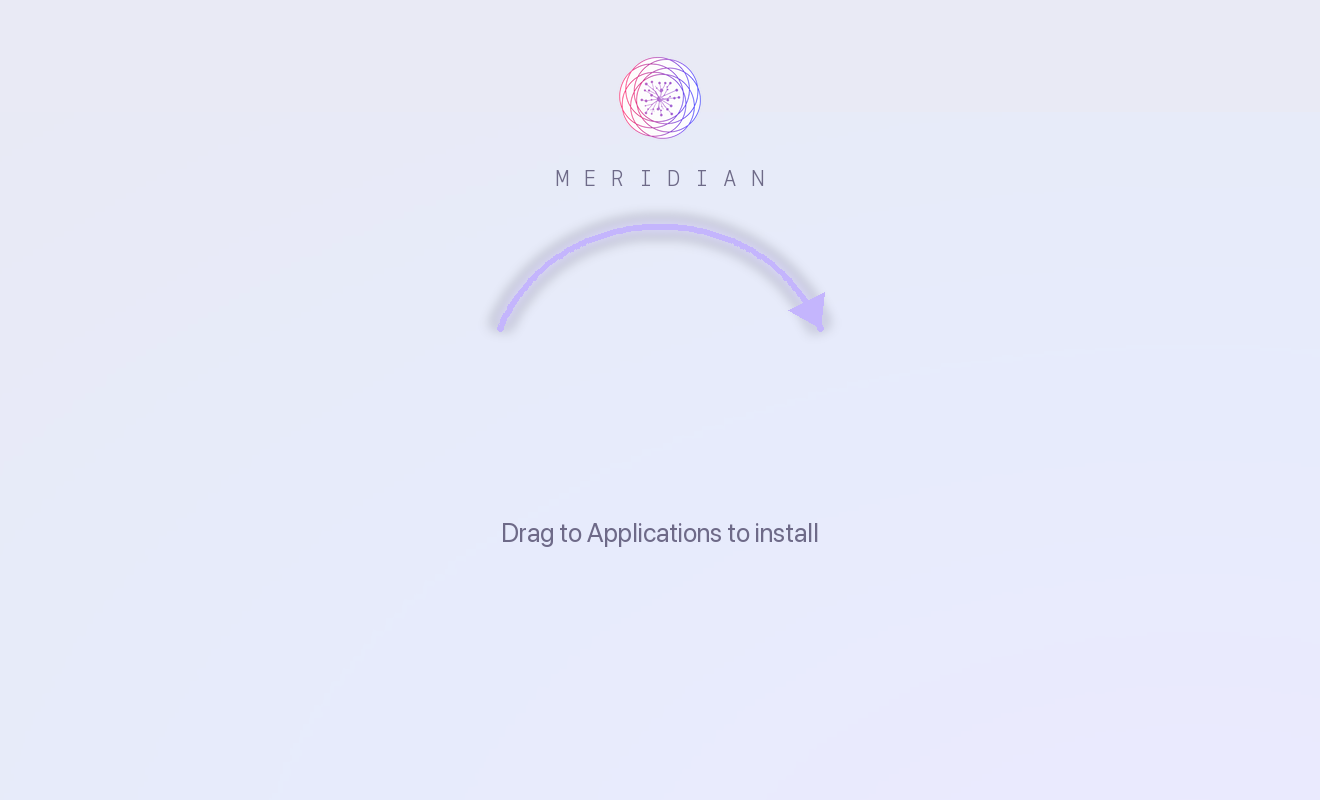
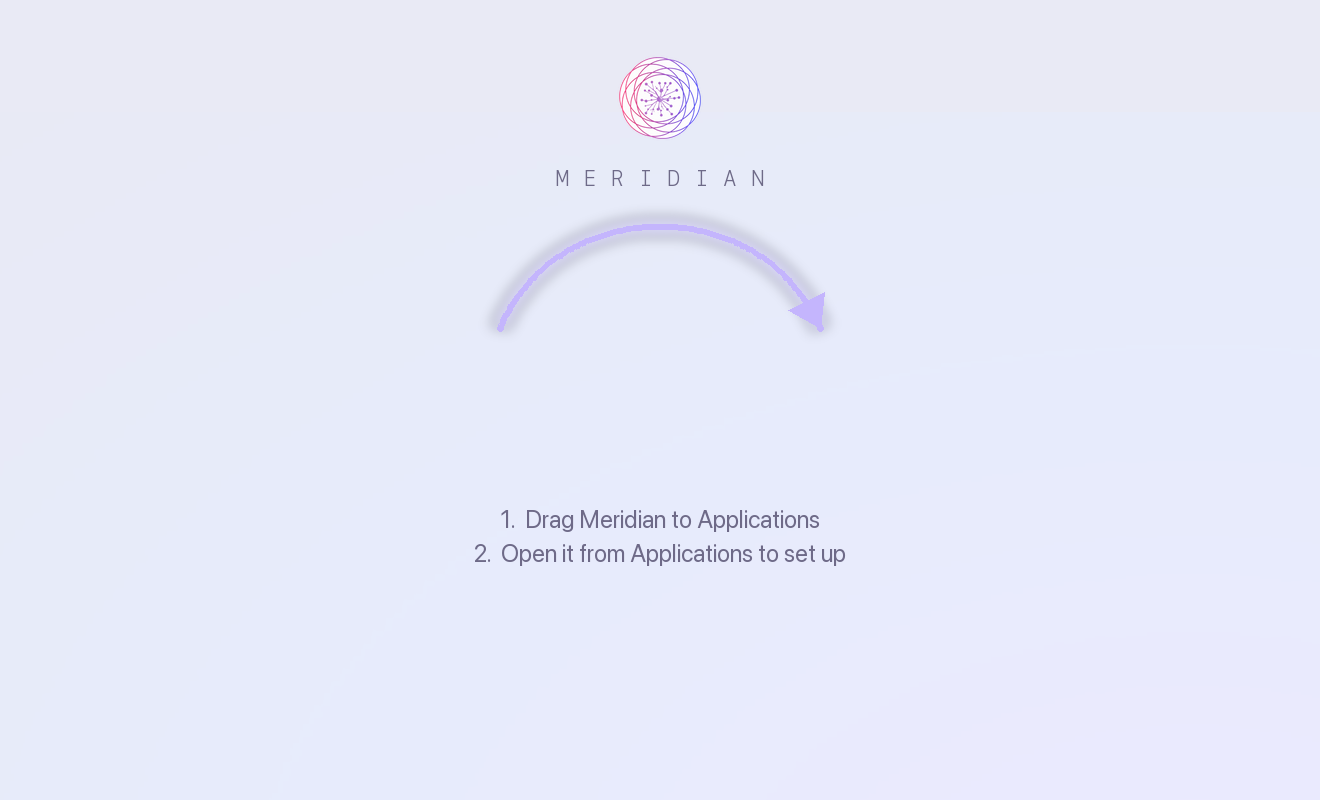
fix(dmg): tell the user to open Meridian, not only to drag it
The installer said "Drag to Applications to install" and stopped. That
describes the drag accurately and then leaves the user on a Finder window with
nothing indicating the app has not started - reported as "on dropping Meridian
to Applications can we make the app setup open immediately?".

It cannot open immediately, and that is not a bug we can fix from inside the
app. A DMG cannot launch anything: the drag is a Finder copy, no code of ours
runs, and macOS has had no post-install hook in a disk image by design for as
long as Gatekeeper has existed. The mechanisms that DO run something after an
install are a .pkg with a postinstall script - which needs a Developer ID
INSTALLER certificate we do not have (ours is the Application cert), and would
change the release artifact and the updater channel - or the user opening it
themselves.

So the honest fix is to ASK for the step, on the only surface a DMG has:

  1.  Drag Meridian to Applications
  2.  Open it from Applications to set up

Numbered rather than one sentence. "and then open it" appended to the drag
instruction reads as a description of what the drag does, which is exactly the
misreading that leaves the app sitting there unopened. Two numbers make it two
actions, and the second names where to find it, because Applications is not
where the user is looking at that moment.

Placed at 252pt, below the 128pt icon row Finder paints at 170pt, so it clears
both icons and their labels.
[…]

Changed region(s): [[0.3727, 0.625, 0.6523, 0.7188]]

diff --git a/ui/__tests__/dmg-install-steps.test.ts b/ui/__tests__/dmg-install-steps.test.ts
@@ -1,0 +1,116 @@
+//ambient dev tool that watches what you do and updates your PM tickets automatically, boosting developer productivity
+//
+// The DMG background has to tell the user to OPEN the app, not only to drag it.
+//
+// A disk image cannot launch anything. The drag to Applications is a Finder
+// copy - no code of ours runs, and macOS has had no post-install hook in a DMG
+// by design for as long as Gatekeeper has existed. So an app sitting in
+// Applications unopened after an install is not something the app can fix from
+// the inside: it is a step the installer has to ASK for, and the background
+// image is the only surface in a DMG that can ask.
+//
+// It used to say "Drag to Applications to install" and stop. That describes the
+// drag accurately and then leaves the user on a Finder window with nothing
+// indicating the app has not started - reported as "on dropping Meridian to
+// Applications can we make the app setup open immediately?", which is the same
+// observation from the other side.
+//
+// Guarded here because the failure is silent in the worst way: the background
+// is a generated PNG, so nothing type-checks it, nothing renders it in CI, and
+// a well-meaning copy edit that collapses the two steps back into one sentence
+// looks completely fine in the diff.
+//
+// This lives under ui/__tests__ because that is the only JS/TS suite the repo
+// runs; the subject is a Python generator, so it is scanned as text.
+
+import { describe, it, expect } from 'bun:test'
+import { readFileSync, statSync } from 'fs'
+import { createHash } from 'crypto'
+import { join } from 'path'
+
+const repo = join(import.meta.dir, '..', '..')
+const gen = readFileSync(join(repo, 'scripts', 'make-dmg-background.py'), 'utf8')
+
+/** The step strings the generator draws, in the order it draws them. */
+function steps(): string[] {
+  const at = gen.indexOf('    steps = [')
+  expect(at).toBeGreaterThan(-1)
+  const end = gen.indexOf('    ]', at)
+  expect(end).toBeGreaterThan(at)
+  return [...gen.slice(at, end).matchAll(/"([^"]+)"/g)].map(m => m[1])
+}
+
+describe('the DMG tells the user to open the app', () => {
+  it('draws two steps, not one instruction', () => {
+    // Numbered rather than one sentence on purpose: "and then open it" appended
+    // to the drag instruction reads as a description of what the drag does,
+    // which is exactly the misreading that leaves the app unopened.
+    expect(steps()).toHaveLength(2)
+  })
+
+  it('names the drag first and the open second', () => {
+    const [one, two] = steps()
+    expect(one).toMatch(/^1\./)
+    expect(one.toLowerCase()).toContain('drag')
+    expect(two).toMatch(/^2\./)
+    expect(two.toLowerCase()).toContain('open')
+  })
+
+  it('says WHERE to open it from', () => {
+    // The user is looking at a DMG window, not at Applications - the folder is
+    // the part that is not obvious at that moment.
+    expect(steps()[1]).toContain('Applications')
+  })
+
+  it('uses plain hyphens only, like every other user-facing string', () => {
+    // CLAUDE.md's hard rule. This text is read by a user during install, so it
+    // is app text even though it lives in a build script.
+    for (const s of steps()) {
+      expect(s).not.toMatch(/[—–]|--/)
+    }
+  })
+
+  it('keeps the steps clear of the icon row Finder draws on top', () => {
+    // Finder paints the .app and the Applications alias at y=170pt at 128pt
+    // (tauri.conf.json's bundle.macOS.dmg), so their bottom edge is 234pt and
+    // their labels sit below that. Text placed any higher would be drawn under
+    // an icon - invisible, with nothing in the build to notice.
+    const m = gen.match(/\((\d+) \+ n \* \d+\) \* SCALE/)
+    expect(m).not.toBeNull()
+    expect(Number(m![1])).toBeGreaterThan(234)
+  })
+
+  it('ships a PNG that actually contains the drawn text', () => {
+    // THE COMMITTED IMAGE IS THE ARTEFACT, and it is generated BY HAND - no
+    // build step regenerates it. So editing the copy above and forgetting to
+    // re-run the script ships the OLD picture while the diff looks complete.
+    //
+    // Not an mtime comparison, which was the obvious approach and is unsound:
+    // on a fresh clone git gives every file the same checkout time, so it
+    // passes unconditionally in CI - the one place it needed to work. Measured,
+    // not assumed: with equal mtimes the check passed even against a
+    // deliberately stale PNG.
+    //
+    // So this reads the image itself. Rasterised text cannot be grepped, but a
+    // re-render always changes the bytes, so the recorded digest is what ties
+    // the two together: change the copy without re-running and the digest no
+    // longer matches, which is exactly the mistake being guarded.
+    const png = readFileSync(join(repo, 'tray', 'src-tauri', 'dmg', 'background.png'))
+    const digest = createHash('sha256').update(png).digest('hex')
+    // Update this line WITH the PNG, in the same commit, after re-running
+    // `python3 scripts/make-dmg-background.py`. The failure message says so.
+    const RENDERED = gen.match(/#\s*rendered-digest:\s*([0-9a-f]{64})/)?.[1]
+    expect(
+      `${digest} (background.png) must match the rendered-digest in make-dmg-background.py - re-run it`,
+    ).toContain(RENDERED ?? 'no rendered-digest comment in make-dmg-background.py')
+  })
+
+  it('is a real image, not a placeholder or an LFS pointer', () => {
+    // Cheap sanity on the artefact itself: PNG magic, and a size consistent with
+    // a 1320x800 render rather than a stub committed by accident.
+    const png = readFileSync(join(repo, 'tray', 'src-tauri', 'dmg', 'background.png'))
+    expect([...png.subarray(0, 4)]).toEqual([0x89, 0x50, 0x4e, 0x47])
+    expect(statSync(join(repo, 'tray', 'src-tauri', 'dmg', 'background.png')).size)
+      .toBeGreaterThan(10_000)
+  })
+})

diff --git a/scripts/make-dmg-background.py b/scripts/make-dmg-background.py
@@ -17,6 +17,12 @@ Requires Pillow (`pip install Pillow`); not part of the app's runtime deps.
 
 Usage: python3 scripts/make-dmg-background.py
 """
+
+# Digest of the committed tray/src-tauri/dmg/background.png this script produces.
+# Pinned by ui/__tests__/dmg-install-steps.test.ts so a copy edit here that is
+# never re-rendered cannot ship the old picture with a diff that looks complete.
+# Re-run this script and update the line below in the SAME commit.
+# rendered-digest: 99d73a6d8ebc92285095ba79d25001c75c262536f52026ff16ecfd84580d8248
 import math
 import os
 from PIL import Image, ImageDraw, ImageFont, ImageOps, ImageFilter
@@ -147,11 +153,33 @@ def main():
     draw.polygon([tip, left, right], fill=ARROW + (235,))
 
     # ── Instructional caption under the icon row ─────────────────────────────
-    cap_font = font(SFNS, 13)
-    caption = "Drag to Applications to install"
-    bbox = draw.textbbox((0, 0), caption, font=cap_font)
-    tw = bbox[2] - bbox[0]
-    draw.text((W // 2 - tw // 2, 258 * SCALE), caption, font=cap_font, fill=T_MUTED)
+    #
+    # TWO STEPS, NUMBERED, because the second one is the one people miss.
+    #
+    # This used to read "Drag to Applications to install" and stop there — which
+    # describes the drag accurately and then leaves the user on a Finder window
+    # with nothing telling them the app has not started. A DMG cannot launch
+    # anything itself: the drag is a Finder copy, no code of ours runs, and macOS
+    # has no post-install hook in a disk image by design. So the app sitting there
+    # unopened is not a bug to fix in code — it is a step the installer has to
+    # ASK for, and the background is the only surface that can.
+    #
+    # Numbered rather than one sentence: "and then open it" tacked onto the drag
+    # instruction reads as a description of what the drag does, which is exactly
+    # the misreading that leaves the app unopened. Two numbers make it two
+    # actions, and the second one names where to find it, because Applications
+    # is not where the user is looking at that moment.
+    step_font = font(SFNS, 12)
+    steps = [
+        "1.  Drag Meridian to Applications",
+        "2.  Open it from Applications to set up",
+    ]
+    for n, line in enumerate(steps):
+        bbox = draw.textbbox((0, 0), line, font=step_font)
+        tw = bbox[2] - bbox[0]
+        # 252pt clears the 128pt icon row (centred on 170pt, so its bottom edge
+        # is 234pt) with room for Finder's own icon labels underneath them.
+        draw.text((W // 2 - tw // 2, (252 + n * 17) * SCALE), line, font=step_font, fill=T_MUTED)
 
     os.makedirs(os.path.dirname(OUT_PATH), exist_ok=True)
     bg.convert("RGB").save(OUT_PATH, dpi=(144, 144))
